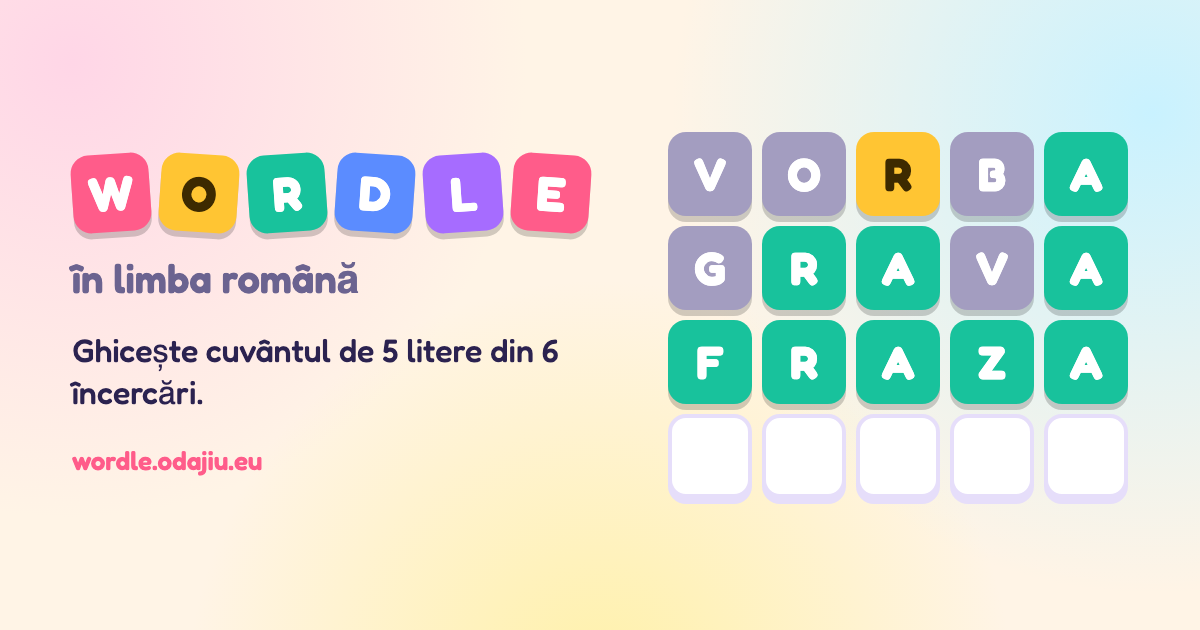
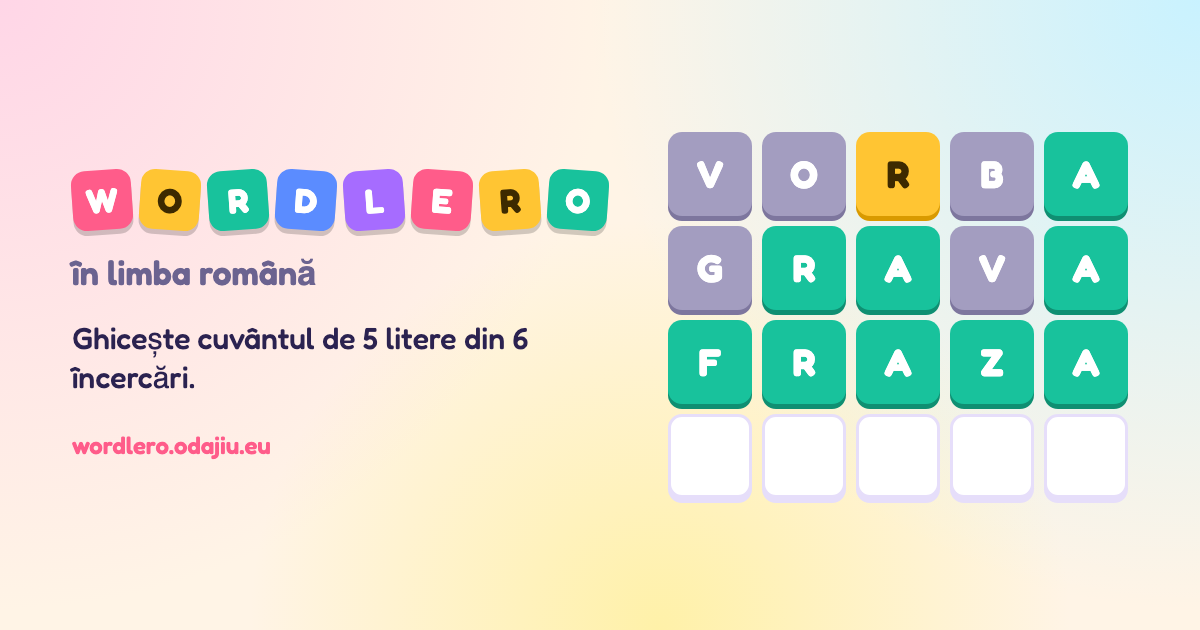
feat: rebrand to Wordlero

diff --git a/index.html b/index.html
@@ -3,9 +3,9 @@
 <head>
   <meta charset="UTF-8">
   <meta name="viewport" content="width=device-width, initial-scale=1.0, maximum-scale=1.0, user-scalable=no, viewport-fit=cover">
-  <title>Wordle în română</title>
-  <meta name="description" content="Wordle în limba română: ghicește cuvântul de 5 litere din 6 încercări.">
-  <link rel="canonical" href="https://wordle.odajiu.eu/">
+  <title>Wordlero: Wordle în română</title>
+  <meta name="description" content="Wordlero, Wordle în limba română: ghicește cuvântul de 5 litere din 6 încercări.">
+  <link rel="canonical" href="https://wordlero.odajiu.eu/">
 
   <meta name="theme-color" content="#fff4e6" media="(prefers-color-scheme: light)">
   <meta name="theme-color" content="#1d1838" media="(prefers-color-scheme: dark)">
@@ -15,20 +15,20 @@
   <link rel="manifest" href="/manifest.webmanifest">
 
   <meta property="og:type" content="website">
-  <meta property="og:site_name" content="Wordle în română">
+  <meta property="og:site_name" content="Wordlero">
   <meta property="og:locale" content="ro_RO">
-  <meta property="og:url" content="https://wordle.odajiu.eu/">
-  <meta property="og:title" content="Wordle în română">
+  <meta property="og:url" content="https://wordlero.odajiu.eu/">
+  <meta property="og:title" content="Wordlero: Wordle în română">
   <meta property="og:description" content="Ghicește cuvântul de 5 litere din 6 încercări.">
-  <meta property="og:image" content="https://wordle.odajiu.eu/og-image.png">
+  <meta property="og:image" content="https://wordlero.odajiu.eu/og-image.png">
   <meta property="og:image:type" content="image/png">
   <meta property="og:image:width" content="1200">
   <meta property="og:image:height" content="630">
-  <meta property="og:image:alt" content="Wordle în limba română: tabla de joc cu litere colorate">
+  <meta property="og:image:alt" content="Wordlero, Wordle în limba română: tabla de joc cu litere colorate">
   <meta name="twitter:card" content="summary_large_image">
-  <meta name="twitter:title" content="Wordle în română">
+  <meta name="twitter:title" content="Wordlero: Wordle în română">
   <meta name="twitter:description" content="Ghicește cuvântul de 5 litere din 6 încercări.">
-  <meta name="twitter:image" content="https://wordle.odajiu.eu/og-image.png">
+  <meta name="twitter:image" content="https://wordlero.odajiu.eu/og-image.png">
 
   <link rel="preconnect" href="https://fonts.googleapis.com">
   <link rel="preconnect" href="https://fonts.gstatic.com" crossorigin>

diff --git a/src/styles/_header.scss b/src/styles/_header.scss
@@ -1,6 +1,6 @@
 @use 'sass:list';
 
-$title-colors: var(--accent), var(--present), var(--correct), var(--blue), var(--purple), var(--accent);
+$title-colors: var(--accent), var(--present), var(--correct), var(--blue), var(--purple), var(--accent), var(--present), var(--correct);
 
 .header {
   display: grid;
@@ -48,11 +48,11 @@ $title-colors: var(--accent), var(--present), var(--correct), var(--blue), var(-
   display: grid;
   place-items: center;
   // Shrinks on narrow phones so the title fits between the two header buttons.
-  width: clamp(28px, 8vw, 40px);
-  height: clamp(28px, 8vw, 40px);
-  border-radius: clamp(8px, 2.2vw, 11px);
+  width: clamp(20px, 6vw, 40px);
+  height: clamp(20px, 6vw, 40px);
+  border-radius: clamp(6px, 1.8vw, 11px);
   color: #fff;
-  font-size: clamp(1.05rem, 5vw, 1.5rem);
+  font-size: clamp(0.85rem, 3.8vw, 1.5rem);
   font-weight: 700;
   box-shadow: 0 3px 0 rgba(0, 0, 0, 0.18);
   animation: bob 3s ease-in-out infinite;
@@ -68,7 +68,8 @@ $title-colors: var(--accent), var(--present), var(--correct), var(--blue), var(-
     }
   }
 
-  &:nth-child(2) {
+  &:nth-child(2),
+  &:nth-child(7) {
     color: var(--present-ink);
   }
 }

diff --git a/src/components/Header.tsx b/src/components/Header.tsx
@@ -1,7 +1,7 @@
 import { ChartBarIcon, QuestionIcon } from '@phosphor-icons/react';
 import IconButton from './IconButton';
 
-const TITLE_LETTERS = 'WORDLE'.split('');
+const TITLE_LETTERS = 'WORDLERO'.split('');
 
 interface Props {
   onOpenHelp: () => void;
@@ -15,9 +15,9 @@ const Header: React.FC<Props> = (props) => {
     <header className="header">
       <IconButton icon={QuestionIcon} label="Cum se joacă" onClick={onOpenHelp} />
       <div className="header__brand">
-        <h1 className="title" aria-label="Wordle">
-          {TITLE_LETTERS.map((letter) => (
-            <span key={letter} className="title__letter" aria-hidden="true">
+        <h1 className="title" aria-label="Wordlero">
+          {TITLE_LETTERS.map((letter, index) => (
+            <span key={index} className="title__letter" aria-hidden="true">
               {letter}
             </span>
           ))}

diff --git a/README.md b/README.md
@@ -1,6 +1,6 @@
 <div align="center">
 
-# 🟩 Wordle în română
+# 🟩 Wordlero
 
 **Ghicește cuvântul de 5 litere din 6 încercări: a playful Romanian take on Wordle, made for phones and desktop.**
 
@@ -9,7 +9,7 @@
 ![Vite](https://img.shields.io/badge/Vite-8-646CFF?logo=vite&logoColor=white)
 ![Sass](https://img.shields.io/badge/Sass-SCSS-CC6699?logo=sass&logoColor=white)
 
-<img src="docs/screenshot.png" alt="Wordle în română mid-game: three guesses colored green, yellow and grey, with the on-screen keyboard tinted to match" width="320">
+<img src="docs/screenshot.png" alt="Wordlero mid-game: three guesses colored green, yellow and grey, with the on-screen keyboard tinted to match" width="320">
 
 </div>
 
@@ -17,7 +17,7 @@
 
 ## About
 
-Wordle în română is the classic five-letter word game with a Romanian word list. Each game picks a random word, and every guess colors its letters to show how close you are. It's built with React and TypeScript, with all the game rules in one pure reducer. There's no backend: your stats live in the browser.
+Wordlero is Wordle în română: the classic five-letter word game with a Romanian word list. Each game picks a random word, and every guess colors its letters to show how close you are. It's built with React and TypeScript, with all the game rules in one pure reducer. There's no backend: your stats live in the browser.
 
 ## Features
 
@@ -51,7 +51,7 @@ pnpm install
 pnpm dev
 ```
 
-Open the URL Vite prints and start guessing, or play it live at **[wordle.odajiu.eu](https://wordle.odajiu.eu/)**.
+Open the URL Vite prints and start guessing, or play it live at **[wordlero.odajiu.eu](https://wordlero.odajiu.eu/)**.
 
 ### Scripts
 

diff --git a/CLAUDE.md b/CLAUDE.md
@@ -4,7 +4,7 @@ This file provides guidance to Claude Code (claude.ai/code) when working with co
 
 ## Overview
 
-Romanian-language Wordle clone. React 19 + TypeScript, SCSS, built with Vite. No tests.
+Wordlero: Romanian-language Wordle clone. React 19 + TypeScript, SCSS, built with Vite. No tests.
 
 ## Commands
 
@@ -37,7 +37,7 @@ Romanian-language Wordle clone. React 19 + TypeScript, SCSS, built with Vite. No
 
 - UI icons come from `@phosphor-icons/react`; use the `*Icon` exports (e.g. `ChartBarIcon`). The names without the suffix are deprecated. No emojis in the UI.
 - `public/` holds the favicon (`favicon.svg`, `favicon-32.png`), PWA icons (`manifest.webmanifest`, `icon-*.png`, `apple-touch-icon.png`) and `og-image.png` (1200×630). The PNGs were rendered once with headless Chrome; there's no generator script in the repo.
-- Production URL is `https://wordle.odajiu.eu`; the canonical and OG/Twitter tags in `index.html` hardcode it.
+- Production URL is `https://wordlero.odajiu.eu`; the canonical and OG/Twitter tags in `index.html` hardcode it.
 
 ## Code conventions
 
